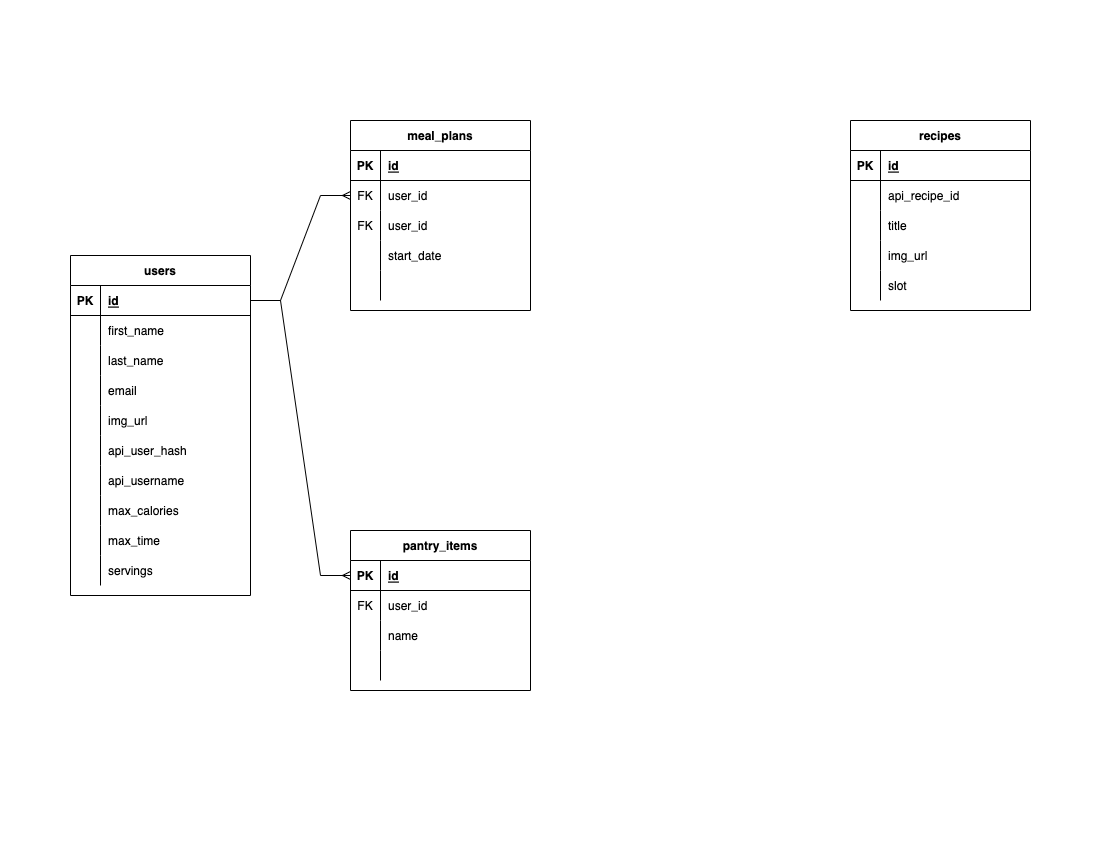
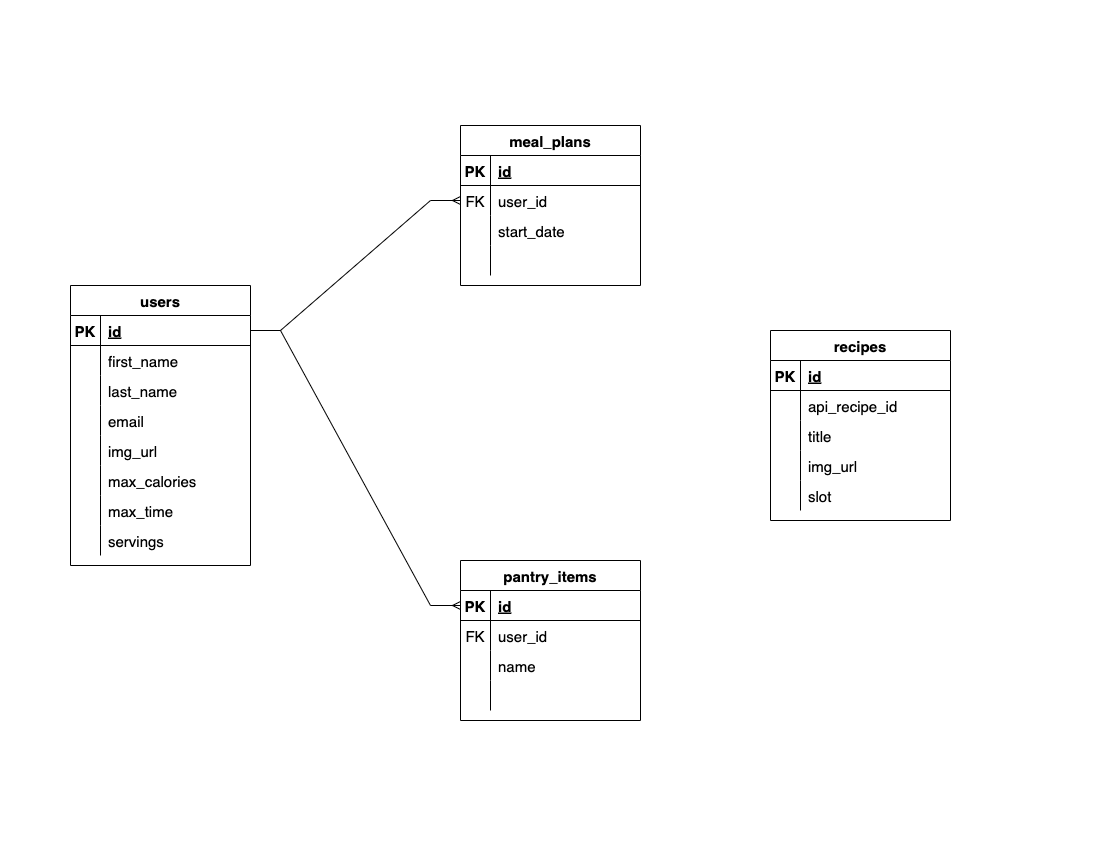
Fix ERD. Remove api username and hash from db. Modify routes accordingly

diff --git a/server/routes/mealplans.js b/server/routes/mealplans.js
@@ -4,7 +4,6 @@ const router  = express.Router();
 const axios = require("axios");
 
 // db queries and helper functions
-const { getUserById } = require("../db/queries/user-queries");
 const { getRandomRecipesForWeek } = require("../db/queries/recipe-queries");
 const { saveMealPlan } = require("../db/queries/mealplan-queries");
 const mealplanMapper = require("../helpers/mealplan-helper");
@@ -12,9 +11,9 @@ const mealplanMapper = require("../helpers/mealplan-helper");
 // Convenience variables
 const apiBaseUrl = "https://api.spoonacular.com";
 const apiKey = process.env.API_KEY;
-const testUserName = process.env.TEST_USERNAME;
-const testUserHash = process.env.TEST_USERHASH;
-const testingMealPlan = require("../db/mock/testing-mealplan");
+const apiUserName = process.env.API_USERNAME;
+const apiUserHash = process.env.API_USER_HASH;
+// const testingMealPlan = require("../db/mock/testing-mealplan");
 
 // GET /mealplans/random - get random meal plan for a week
 router.get("/random", (req, res) => {
@@ -34,36 +33,22 @@ router.get("/random", (req, res) => {
 router.post("/:startDate", (req, res) => {
   console.log("req.params.startDate", req.params.startDate, " type:", typeof req.params.startDate);
   const mealplan = req.body;
-  // console.log("mealplan in req.body:", mealplan);
 
   const userId = Number.parseInt(req.cookies["user_id"]);
 
-  const apiPromise = getUserById(userId).then((user) => {
-    const { api_username, api_user_hash } = user;
-    // sending request with test user and testing meal plan
-    return axios.post(
-      `${apiBaseUrl}/mealplanner/${testUserName}/items?hash=${testUserHash}&apiKey=${apiKey}`,
-      testingMealPlan)
-      .then(res => {
-        return res.data;
-      })
-      .catch(err => {
-        return { error: err.message };
-      });
-
-    // The actual request to send for real meal plan and user:
-    // return axios.post(
-    //   `${apiBaseUrl}/mealplanner/${api_username}/items?hash=${api_user_hash}&apiKey=${apiKey}`,
-    //   mealplan)
-    //   .then(res => {
-    //     return res.data;
-    //   })
-    //   .catch(err => {
-    //     return { error: err.message };
-    //   });
-  });
+  const apiPromise = axios.post(
+    `${apiBaseUrl}/mealplanner/${apiUserName}/items?hash=${apiUserHash}&apiKey=${apiKey}`,
+    mealplan)  //sending actual meal plan from req.body
+    // testingMealPlan)  //sending testing meal plan start date 2020-05-18
+    .then(res => {
+      return res.data;
+    })
+    .catch(err => {
+      return { error: err.message };
+    });
 
   const dbPromise = saveMealPlan(userId, req.params.startDate);
+
   Promise.all([apiPromise, dbPromise])
     .then((results) => {
       res.send(results);
